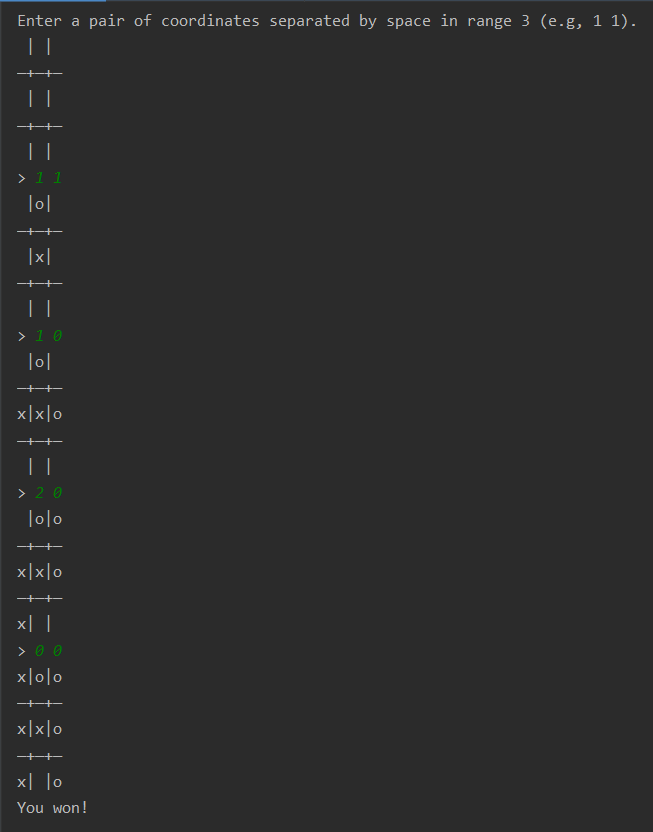
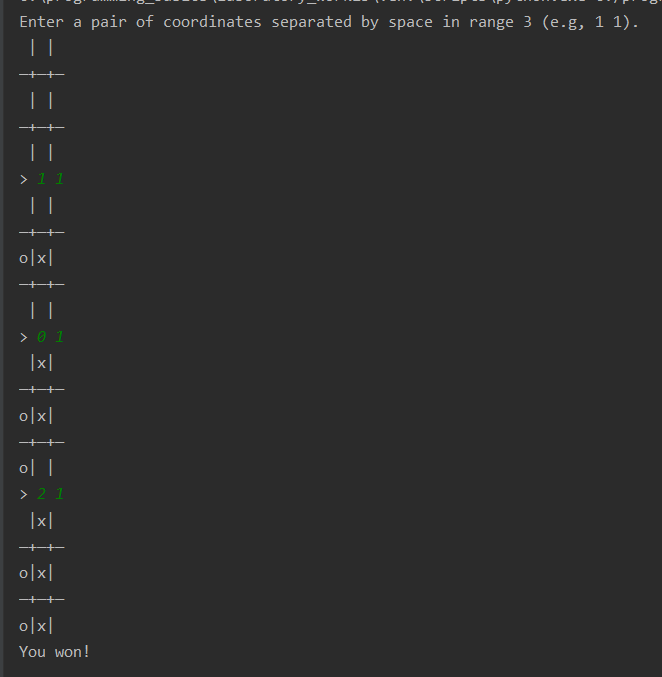
Changed the example and game output sequence

Changed region(s): [[0.0, 0.0, 1.0, 0.9926]]

diff --git a/tic_tac_toe/game.py b/tic_tac_toe/game.py
@@ -8,8 +8,9 @@ def main():
     board = Board([[" " for _ in range(3)] for _ in range(3)])
     print("Enter a pair of coordinates separated by space in range 3 "
           "(e.g, 1 1).")
-    while board.check_state() is None:
+    while board.check_state() != 0:
         print(board)
+
         coords = input("> ").strip().split()
         try:
             x, y = (int(coord) for coord in coords)
@@ -17,15 +18,21 @@ def main():
         except ValueError:
             print("Enter a valid pair of coordinates.")
             continue
+        if board.check_state() == -1:
+            print(board)
+            print("You won!")
+            break
+
         tree = Tree(board)
         x, y = tree.find_best_move()
         board.make_move(x, y)
-    if board.check_state() == -1:
-        print("You won!")
-    elif board.check_state() == 0:
+        if board.check_state() == 1:
+            print(board)
+            print("Computer won!")
+            break
+    if board.check_state() == 0:
+        print(board)
         print("Draw!")
-    else:
-        print("Computer won!")
 
 
 if __name__ == '__main__':
